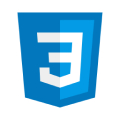
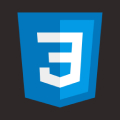
Organizando sobre o tecnologias

diff --git a/style.css b/style.css
@@ -32,7 +32,7 @@ header a{
 }
 
 #personagem{
-    border-radius: 50%;
+ 
     padding-top: 6em;
     padding-left: 2em;
     width: 315px;
@@ -49,43 +49,88 @@ header a{
 /*Fim incio*/
 
 /*Inicio Sobre*/
-#informacoes{
-    height: 36em;
-}
+
 #informacoes h1{
-    background-color: aqua;
     font-size: 55px;
     text-align: center;
     padding-top: 0.5em;
+    
 }
 
 #perfil{
+    display: inline-block;
     width: 25em;
     height: 25em;
     padding-left: 2em;
-    padding-bottom: 2em;
-    background-color: bisque;
+    padding-right: 2em;
+
 }
 
 #perfil img{
     border-radius: 100%;
 }
 
-#sobre{
-    display: flex;
-    width: 250px;
-    height: 250px;
-    background-color: rgb(255, 0, 0);
-    flex-direction: column;
+#sobre{ 
+    
+    display: inline-block;
+    width: 700px;
+    height: 300px;
+
 }
 
 #sobre div{
-    color: white;
-    justify-content: flex-end;
+    color: #000;
+}
+
+#sobre div p{
+    font-size: 28px;
+    color: #000;
+    font-style: normal;
+    font-weight: 400;
+    line-height: normal;
 }
 
 #sobre img{
     width: 45px;
     height: 45px;
-    border-radius: 100%;
+    padding-top: 30px;
+    padding-left: 15px;
+}
+
+/*Fim sobre*/
+
+/*Inicio Tecnologias*/
+
+#tecnologia{
+    background: #2E2828;
+    height: 500px;
+    text-align: center;
+}
+
+#tecnologia h1{
+    color: #FFF;
+    font-family: Roboto;
+    font-size: 55px;
+    font-style: normal;
+    font-weight: 600;
+    line-height: normal;
+    padding-bottom: 50px ;
+   padding-top: 50px;
+}
+
+#imagem-tecologias{   
+    display: flex;
+    width: 1028px;
+    height: 304px;
+    align-items: center;
+    justify-content: center;
+    gap: 64px 107px;
+    flex-wrap: wrap;
+    padding-left: 10em;
+}
+
+
+#imagem-tecologias img{
+    width: 120px;
+    height: 120px;
 }

diff --git a/index.html b/index.html
@@ -65,10 +65,10 @@
         
     </div>
 
-    <div>
+    <div id="tecnologia">
         <h1>Tecnologias</h1>
 
-        <div>
+        <div id="imagem-tecologias">
             <img src="./img/HTML.jpg" alt="html">
             <img src="./img/CSS.jpg" alt="css">
             <img src="./img/JS.jpg" alt="javascript">
